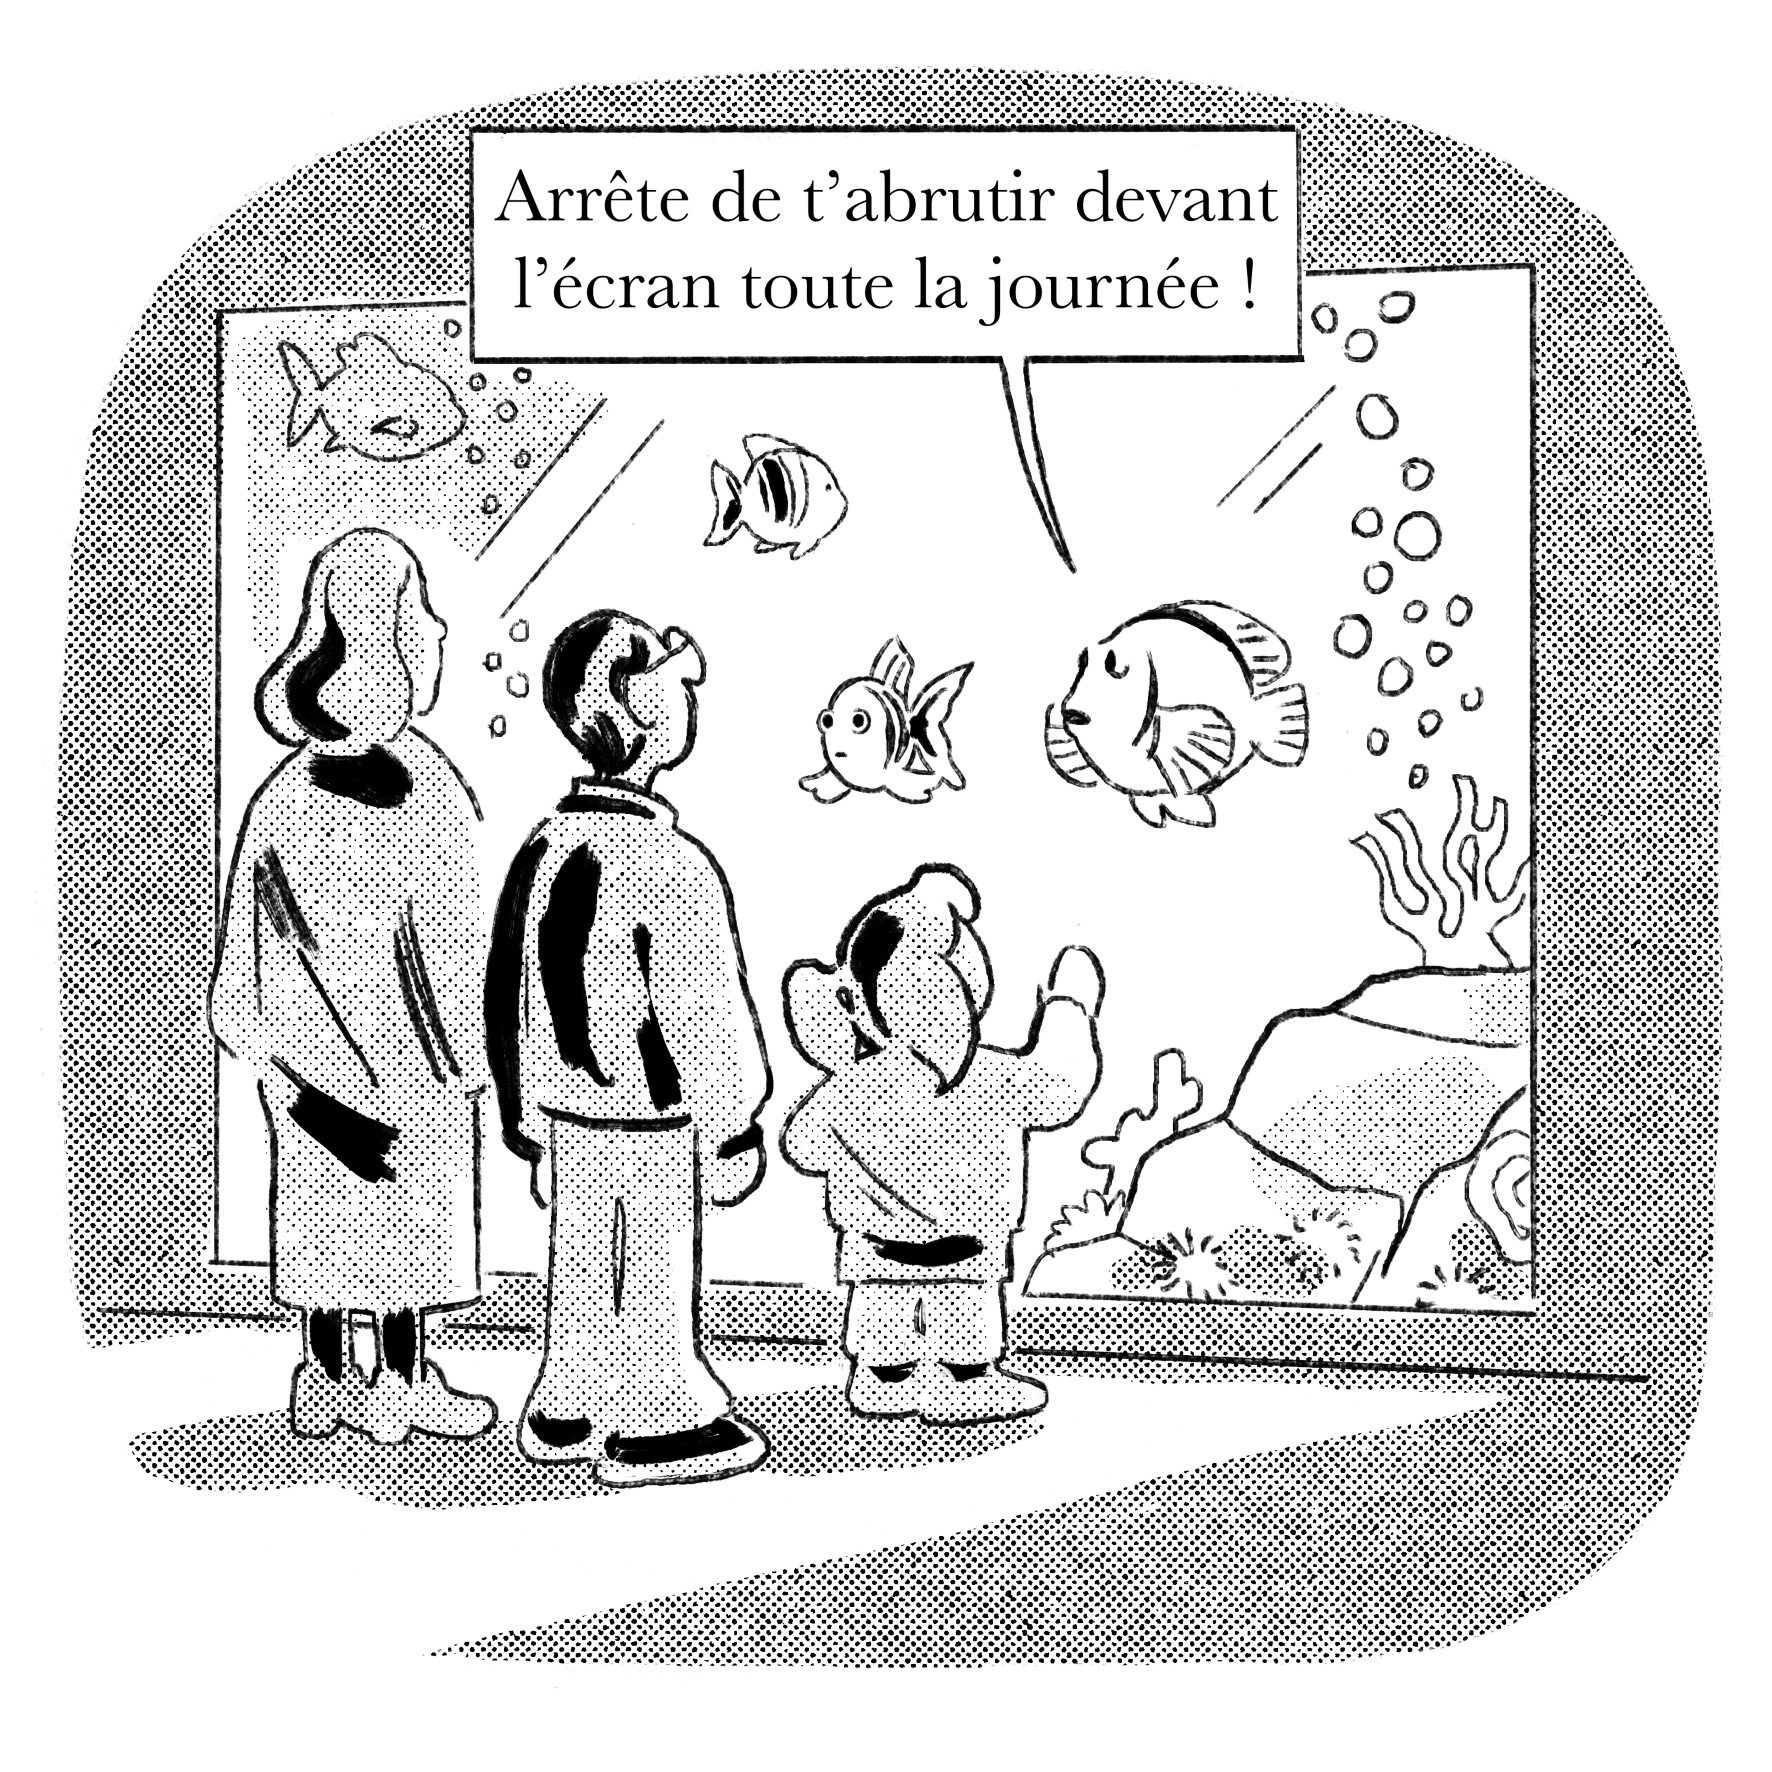
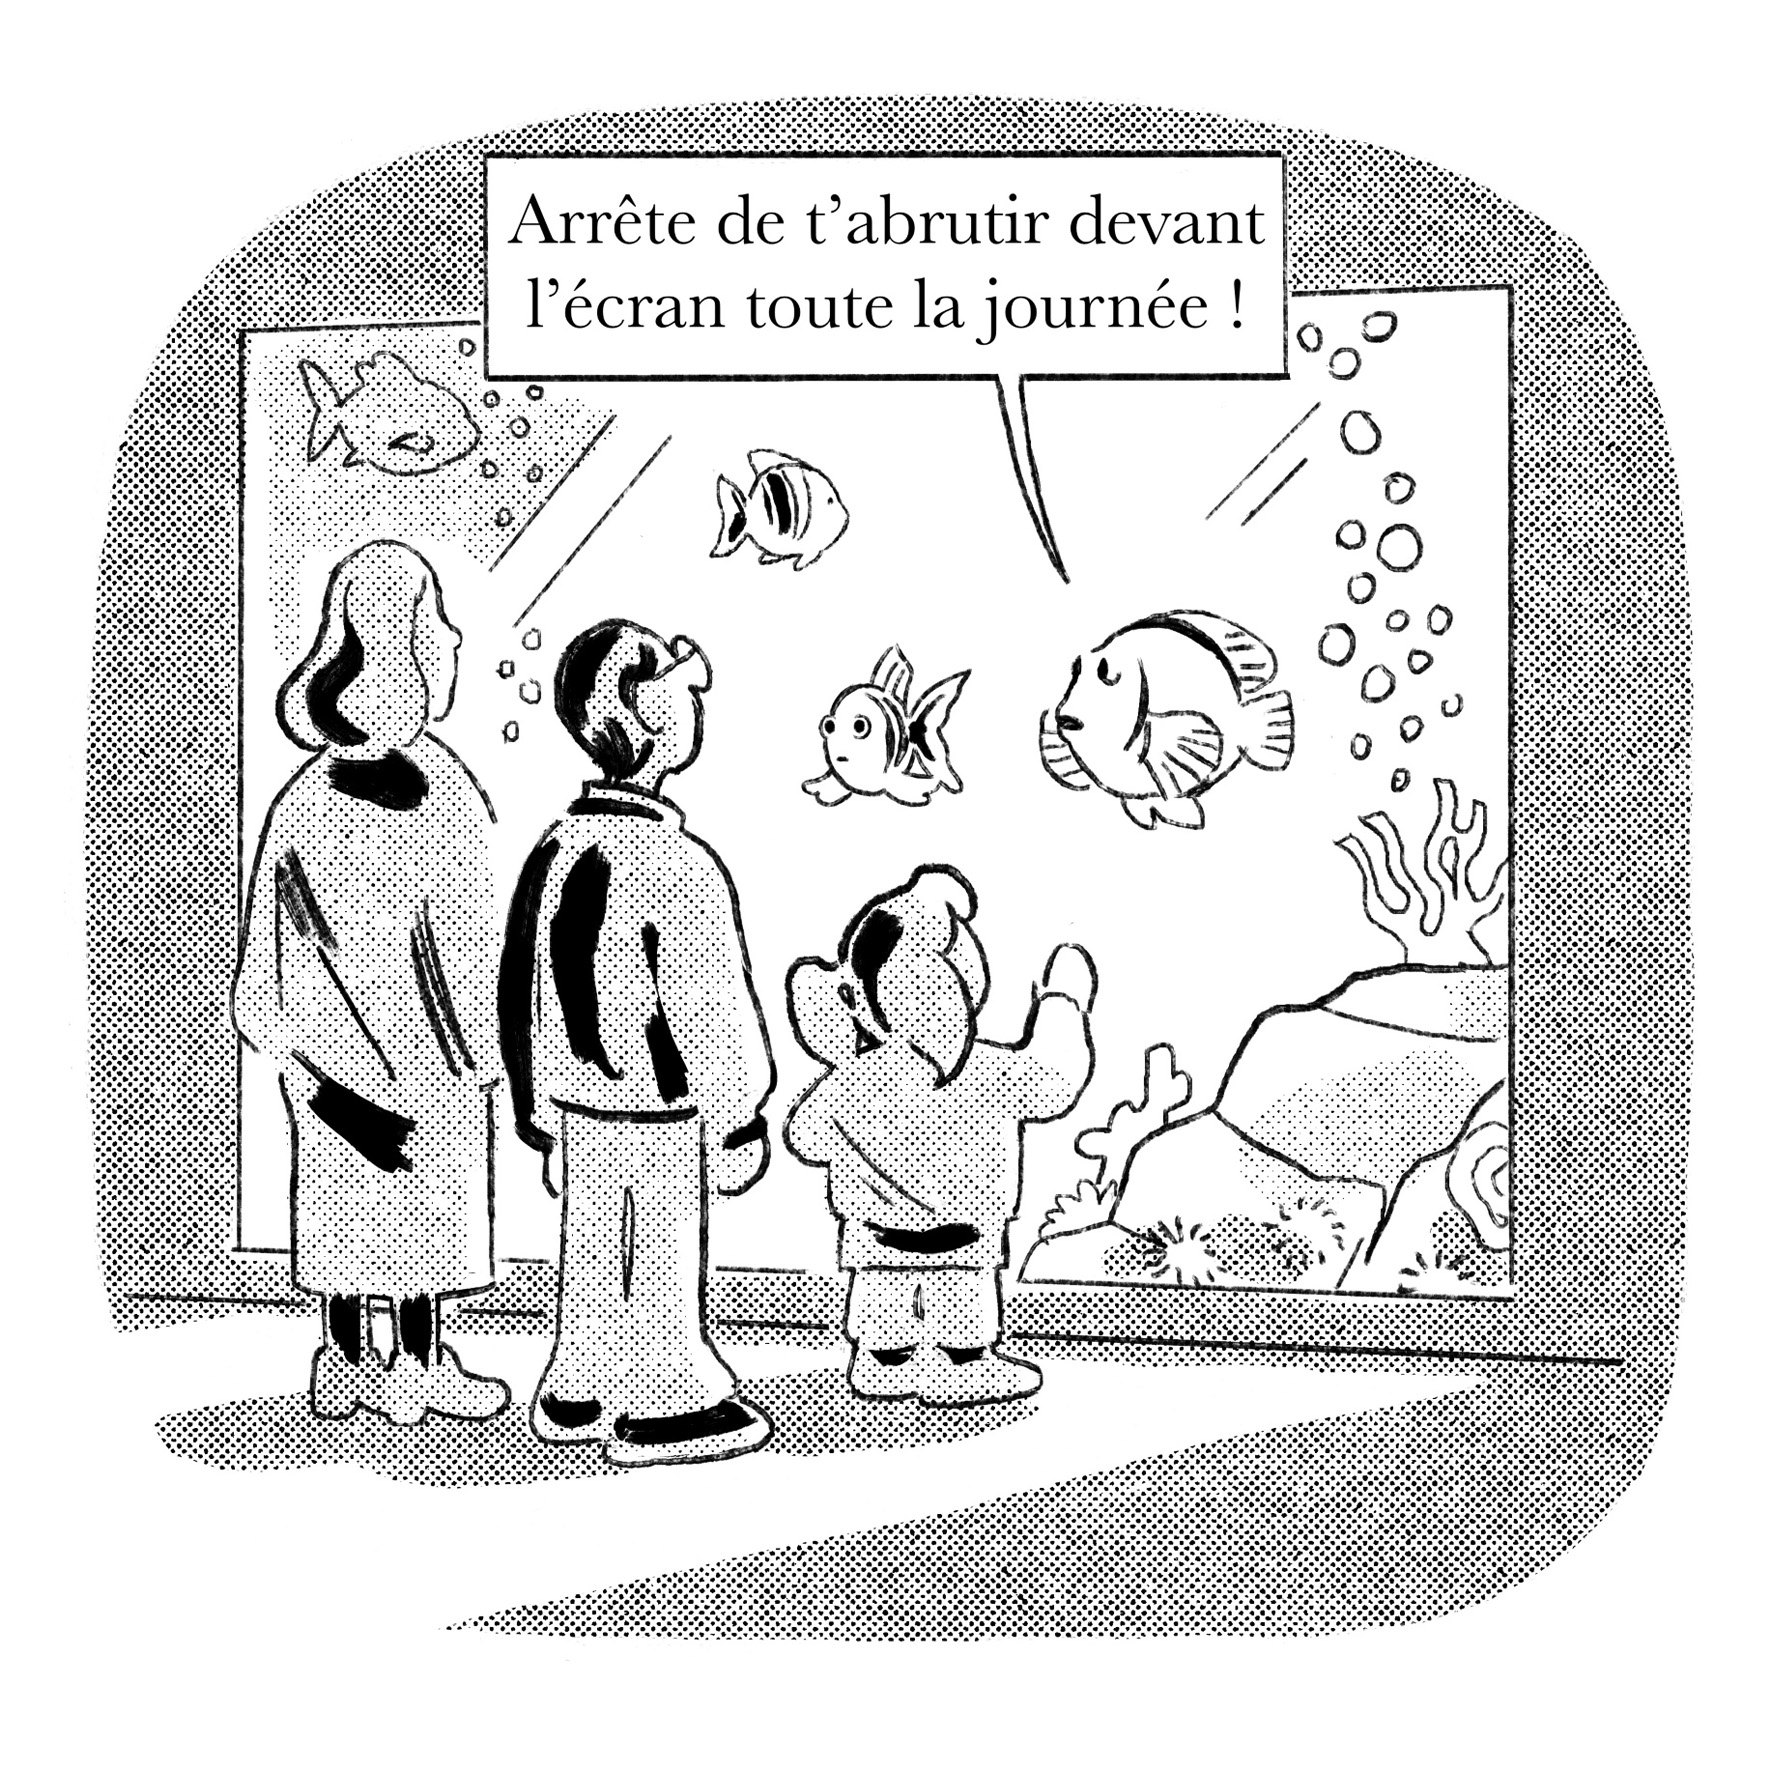
Mini changements
- suppression chargement polices inutilisées
- ajout de 2 anciens dessins bastille dans la page projet
- ajout page proteine_forme avec mention "à venir"

diff --git a/projet-proteine_forme.html b/projet-proteine_forme.html
@@ -184,53 +184,15 @@
   <!-- Conteneur pour le reste du contenu -->
   <div class="main-container">
     <div class="category">
-      <h2 class="category-title"><a href="sommaire.html#section-2">Illustration</a> </h2>
-      <h2 class="category-title-2">- Bastille</h2>
+      <h2 class="category-title"><a href="sommaire.html#section-3">Bande Dessinée</a> </h2>
+      <h2 class="category-title-2">- Protéine Forme</h2>
 
     </div>
     <!-- Description -->
         <div class="description">
 
-    <span style="text-decoration: underline;"> Client</span> : <strong>Bastille </strong> <br />
-    <span style="text-decoration: underline;"> Année </span> : <strong>2022-2024 </strong> <br />
-    <span style="text-decoration: underline;"> Directeur Artistique </span> : <strong>Michael Prigent </strong> <br />
-
-
-
-    <p>Pendant 2 ans, j'ai réalisé une vingtaine de dessins humoristiques pour le magazine  <strong>Bastille </strong>.
-
-    </p>
-
-         <div class="project-gallery-two">
-
-      <a data-fancybox="gallery" href="images/bastille/été2024.jpeg">
-        <img src="images/bastille/été2024.jpeg" alt="bastille été 2024">
-      </a>
-      <a data-fancybox="gallery" href="images/bastille/Mars2024-texteV2.jpg">
-        <img src="images/bastille/Mars2024-texteV2.jpg" alt="bastille mars 2024">
-      </a>
-
-   <a data-fancybox="gallery" href="images/bastille/IMG_2595.JPG">
-        <img src="images/bastille/IMG_2595.JPG" alt="bastille été 2022">
-      </a>
-
-        <a data-fancybox="gallery" href="images/bastille/Bastille-juin.jpg">
-        <img src="images/bastille/Bastille-juin.jpg" alt="bastille septembre 2022">
-      </a>
-
-
-
-        <a data-fancybox="gallery" href="images/bastille/Bastille-3-aperçu.jpg">
-        <img src="images/bastille/Bastille-3-aperçu.jpg" alt="bastille septembre 2022">
-      </a>
-   <a data-fancybox="gallery" href="images/bastille/IMG_2597.JPG">
-        <img src="images/bastille/IMG_2597.JPG" alt="bastille été 2022">
-      </a>
-
-
-
-</div>
-
+    <p>	<br />
+	À venir</p>
 
         <!-- Lien de retour -->
         <div class="category-2">

diff --git a/index.html b/index.html
@@ -4,12 +4,7 @@
 
 <link rel="preconnect" href="https://fonts.googleapis.com">
 <link rel="preconnect" href="https://fonts.gstatic.com" crossorigin>
-<link href="https://fonts.googleapis.com/css2?family=Jacquarda+Bastarda+9+Charted&display=swap" rel="stylesheet">
-<link href="https://fonts.googleapis.com/css2?family=Jacquarda+Bastarda+9&display=swap" rel="stylesheet">
-<link href="https://fonts.googleapis.com/css2?family=Playwrite+DE+Grund&display=swap" rel="stylesheet">
 <link href="https://fonts.googleapis.com/css2?family=Lato&display=swap" rel="stylesheet">
-<link href="https://fonts.googleapis.com/css2?family=Matemasie&display=swap" rel="stylesheet">
-<link href="https://fonts.googleapis.com/css2?family=DM+Sans&display=swap" rel="stylesheet">
 
    
 
